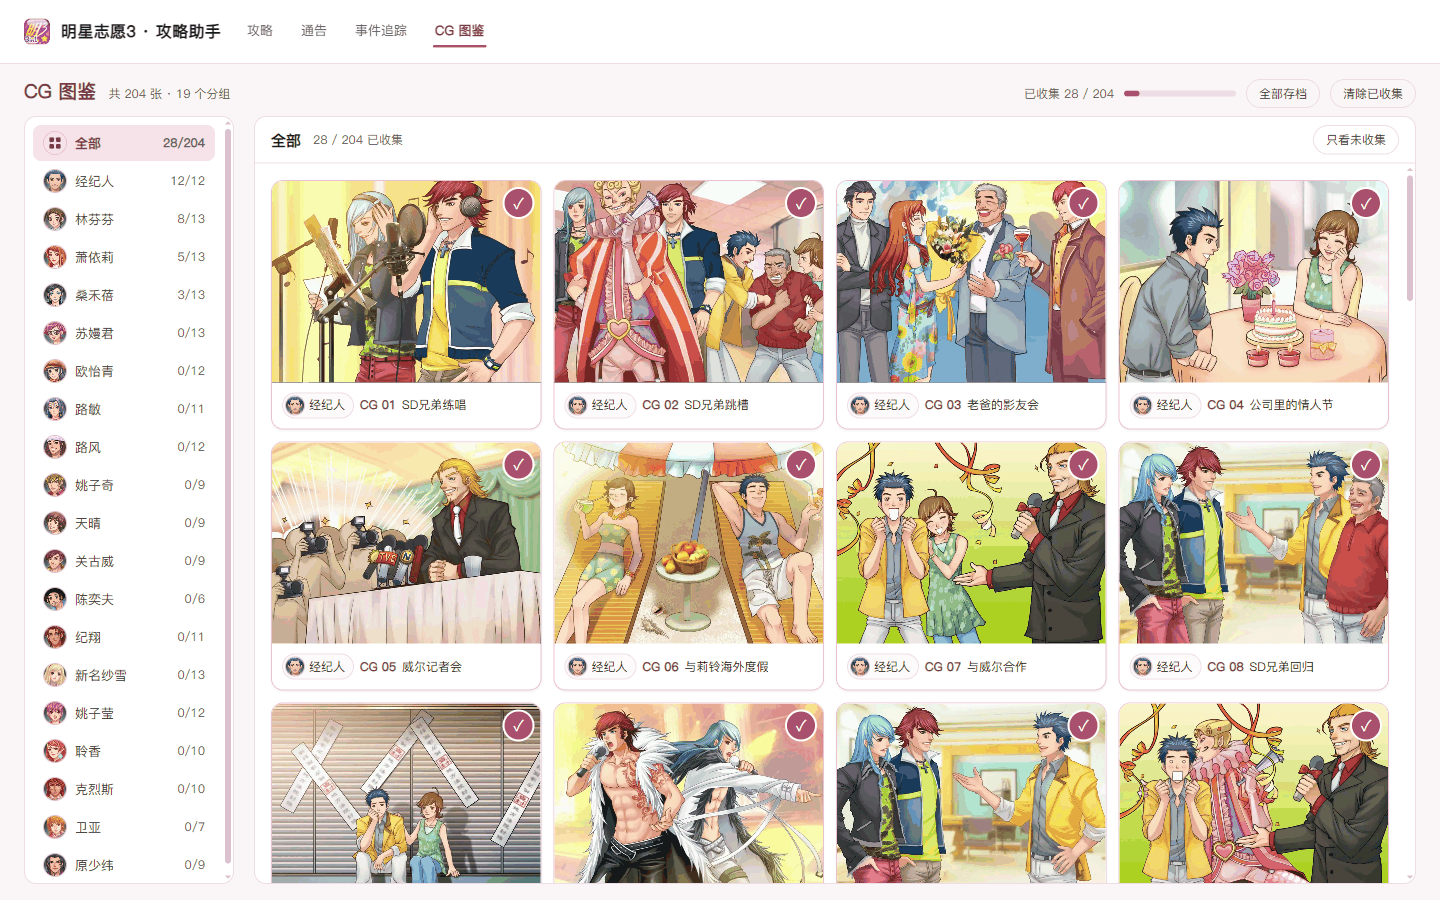
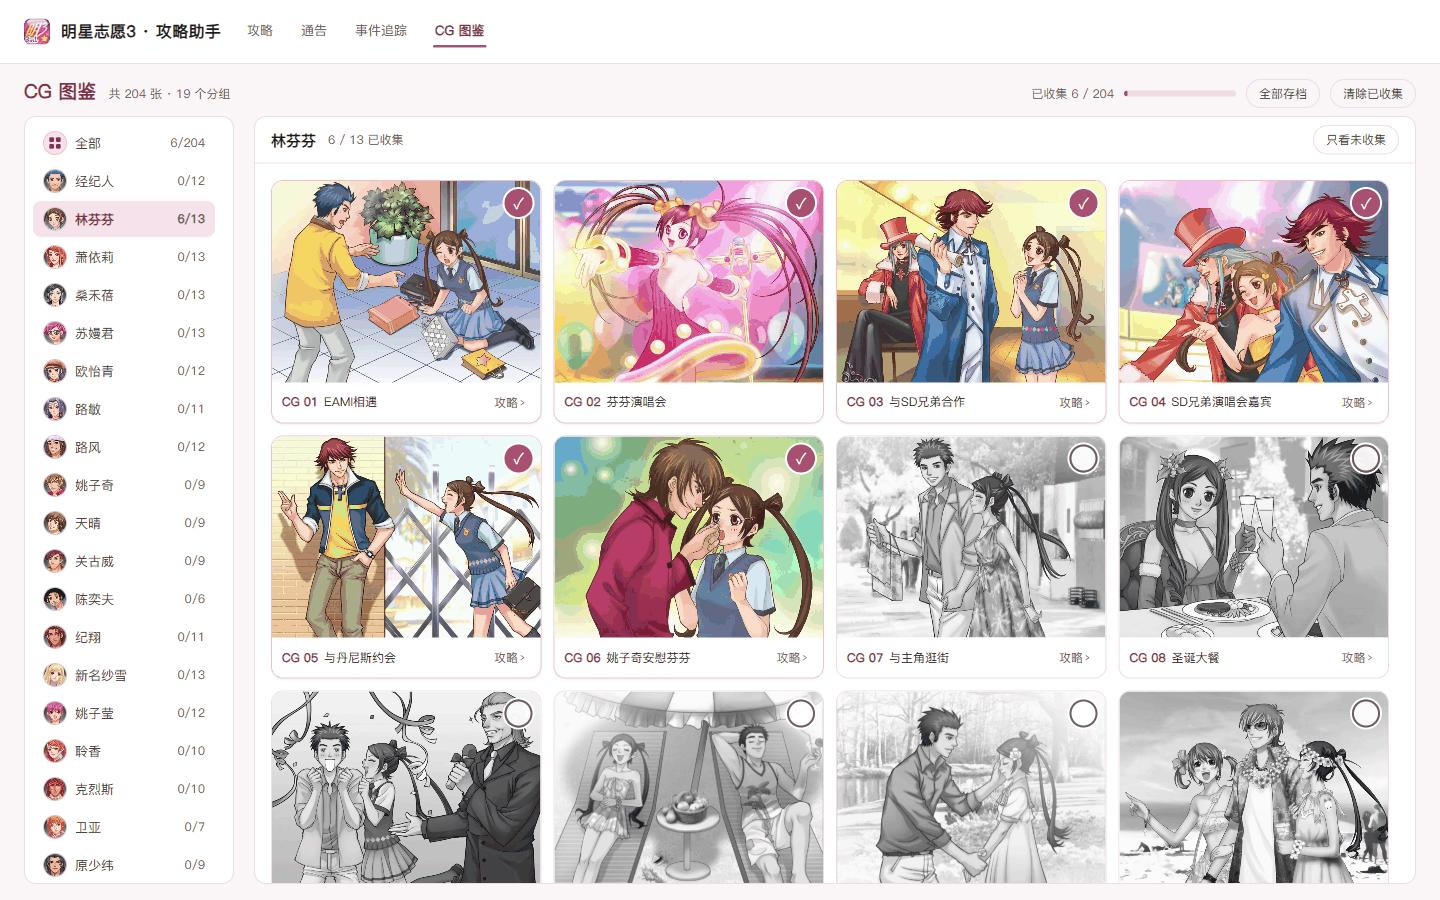
docs: update readme for event-level cg links

diff --git a/docs/content-pipeline.md b/docs/content-pipeline.md
@@ -5,7 +5,7 @@
 
 ## 内容来源
 
-- 《明星志愿3攻略.docx》（本地原始文档，不入库）：四大分级的主体正文。
+- 《明星志愿3攻略.docx》（本地原始文档，不入库）：经纪人事件簿 / 艺人事件簿 / 六大特殊通告 / 其他事件四类的主体正文。「路欧桑剧情整理」原本是「其他事件」的最后一条，现在单独提成一个类目（`extract_guide.py` 建树时把这一项从 `other_items` 里 `pop` 出来插到第三位），正文仍来自 `sources/luousang-*.txt` 那五份分支文件。**类目 id 与五个分支 id 一直是 `other-events/luousang*`，提升时没有改名**，老书签、CG 落点、追踪器的分支线都靠它。
 - `sources/game-initial-questions.txt`：开局访谈 14 题的完整选项与友好度变化，**以这份 txt 为唯一来源**，原文（GBK）转 UTF-8 后原样使用，不做改写。首行 `★标题` 只是页面标题（与页面同名时不重复渲染）；首个问题之前的说明行合并成一条黄底提示条；`问题结束（补充说明）` 的括号文字作为该选项的脚注（`hint`），选项本身仍显示「问题结束」终止标记。
 - `sources/initial-events.txt`：初始事件（新手事件 1–5 / 女艺人的疑惑 / 女艺人的请求），**以该 txt 为唯一来源**，docx 里的同名章节不再参与渲染，原文（GBK）转 UTF-8 后原样使用。解析规则：首行 `★新手事件：` 是页面标题，跳过；`#`、`*` 开头与**以冒号结尾的独行标题**（`初始女艺人的事件（指…）：`）都解析为 `section`；章节内不含标点的短行（`女艺人的疑惑`）解析为 `heading` 子标题；编号行（`1 （自动）`、`3－1 （跟随）`）解析为 `event` 并保留编号与触发方式标签，`提醒：` 行渲染为提示条，「旗下艺人为…」缩进为选项样式。txt 里已经没有 `#初始剧情` 这个标签，所以第一个 `event` 之前若还没有任何 `section`，脚本会自动补一个「初始剧情」小节，让开局 5 条事件不再裸挂在页面下。正文里混用的 `--` 与半角逗号会统一成 `——` 与 `，`。
 - `sources/character-stats.txt`：18 位可签约艺人（含资料片新增）的初始属性，**以游戏内「初始属性(女)」「初始属性(男)」两张截图为准**。源文件保持截图的行列形状：一段以角色名开头，随后是属性行与紧跟其后的 `成长` 行；女、男两段合并成**一张表**（`table` 块）而不分性别——一人一行、一项一列，每个格子上面是初始值、下面一行小字是成长加成。姓名列在窄屏横向滑动时保持固定；每列最高的数值套浅粉胶囊，成长加成的最高值用金色，**并列第一不标**。
@@ -43,6 +43,22 @@
 - `table` 块交给 `DataTable`：表头用 sidebar 底色，数值列右对齐并用 `tabular-nums` 对齐位数，奇偶行交替换色；`highlight` 列为真的列会把该列最高值套上 `bg-brand-soft` 胶囊，列上有 `growthKey` 时该格会多渲染一行「＋成长值」（最高值转金色）。最高值只在该列唯一时才标，和游戏内表格「多於一人時不會標示」一致。
 - 其余情况逐块渲染：`section`（`#`/`*` 大标题）、`heading`、段落、提示条各自成段。
 
+## 攻略 ⇄ CG 映射
+
+两张手写表是唯一事实来源，改映射只改这两张，再重跑对应脚本：
+
+| 表 | 用途 | 格式 |
+| --- | --- | --- |
+| `sources/cg-links.tsv` | 一对一：事件 → 它出的那张（或那几张）CG | `节点id <TAB> 事件号 <TAB> cgId[,cgId] <TAB> 章节?` |
+| `sources/cg-node-links.tsv` | 多对一：多张 CG 共用一个事件，或只能整页落点 | `cgId <TAB> 节点id <TAB> 备注 <TAB> 事件号? <TAB> 章节?` |
+
+- **章节列必须写「最内层」heading**，`☆d2` 子标题（「拒绝」「在巴黎」「同志传闻」）也算一层。同一编号在一页里出现两次时不写章节会报 `ambiguous event`，写错报 `no such event … @ 章节`，整条映射让生成直接失败，不会静默断链。
+- `extract_guide.py` 的 `apply_cg_links()` 给命中事件的块补 `cgIds` 与 `anchor="ev<块下标>"`；事件卡的 DOM id 用 `head.anchor ?? ev<index>` 兜底，所以任何事件都能被 `#/guide/<nodeId>~ev<n>` 深链，哪怕它没有 CG。
+- `extract_cg.py` 的 `apply_node_links()` 处理多对一：有事件号就现算 `ev<块下标>`（美丽之星写真集 18 张都锚 #14），没有就只写整页落点。两份结果分别落在 `guide.json` 的块上和 `cg.json` 的 `item.guide`。
+- 前端 `CgApp.linkFor()` 先认事件级（`cgIds` 反查），再认页面级；多个候选落点时**优先 `other-events/luousang/` 前缀**——三人恋情事件在各自艺人页只做浏览，跳转与收集统一走剧情整理。`src/lib/cgOrigin.ts` 另外记住「从哪条事件点进图鉴的」（sessionStorage，不进存档），同一张图有多处出处时按原路返回。
+- 允许的重复：同一张 CG 出现在同节点的两个事件（苏嫚君 CG05 圣诞布置，育幼院 #40 与达成结局 #55 各一次），以及 `other-events/luousang/` 五个分支页之间（同一段剧情写了五遍）。跨节点重复会被 `test_cg_links.py` 拦下，除非登记进 `DUPLICATED_ACROSS_NODES`。
+- 事件池里被挡掉的重复章节由 `src/lib/tracker.ts` 的 `POOL_SKIP` 按「节点 id + 章节名」配置（路风 / 桑禾蓓的整个「事件」节、欧怡青的「路欧恋」章）；**被挡的线仍递增序号**，其余线的 id 不位移，老存档才不会失联。
+
 ## 锚点跳转
 
 攻略正文里带 `id` 的标题块可以在页内跳转，`target` 指向目标块的 `id`：
@@ -65,7 +81,7 @@
 
 - 拖拽落点是目标行的上半 / 下半，分别表示「插入到它之前 / 之后」，落点处显示一条玫瑰色插入线，被拖的行变淡。
 - 顺序存在 `localStorage`（`guide.tree-order.v1`），只记录**真正动过的层级**（父级 id → 子 id 列表）。重新生成 `guide.json` 时，未动过的层级不受影响；列表里已不存在的 id 会被忽略，新增条目回落到该层级末尾。
-- 只改顺序不改数据：页头的四个分类 tab、搜索命中的排列、「上一条 / 下一条」都按新顺序走。URL 里仍是稳定的节点 id，重排不会让链接失效。
+- 只改顺序不改数据：页头的五个分类 tab、搜索命中的排列、「上一条 / 下一条」都按新顺序走。URL 里仍是稳定的节点 id，重排不会让链接失效。
 - 侧栏标题右侧出现「恢复默认」时表示顺序已被改过，点一下即回到脚本生成的顺序（同时清掉本地记录）。
 - 键盘可用 `Alt+↑` / `Alt+↓` 把焦点所在的条目上移 / 下移一位。触摸屏不支持 HTML5 拖拽，此时每行右侧显示 `↑` `↓` 两个按钮（`touch:` 变体，`pointer: coarse`）。
 
@@ -83,8 +99,9 @@
 | `npm run build` | 类型检查 + 生产构建到 `dist/` |
 | `npm run preview` | 预览构建产物 |
 | `npm run typecheck` | 只跑 `tsc` |
-| `npm run test:guide` | Python 回归测试：攻略解析（29 项）+ 通告数据（13 项） |
+| `npm run test:guide` | Python 回归测试：攻略解析（30 项）+ 通告数据（13 项）+ CG 映射（9 项），共 52 项 |
 | `python scripts/extract_notices.py` | 重生成通告数据（需 `pip install openpyxl xlrd`） |
+| `python scripts/extract_cg.py` | 重生成 CG 图鉴与图片（需 Pillow，素材放在 `outputs/`） |
 
 **解析回归**：解析脚本里积累了大量角色专属分支，改一个共享正则可能悄悄改坏别的角色页，所以 `test_extract.py` 会重跑真实管线，并断言产物与已提交的 `guide.json` **逐字节一致**。改完解析规则先重生成再测：
 
@@ -118,18 +135,26 @@ node scripts/cdp_tracker_memo.mjs
 ```
 public/data/guide.json       生成的结构化攻略数据（运行时加载）
 public/data/notices.json     生成的通告数据（进入通告 tab 才加载）
+public/data/cg.json          生成的 CG 图鉴数据（含 CG → 攻略落点）
+public/images/cg/*.webp      压缩后的 CG 图片（进仓库）
 sources/*.txt                补充攻略的纯文本来源（UTF-8，可重跑）
 sources/notices/*.xls|xlsx   通告原始表格（重生成数据的输入）
+sources/cg-links.tsv         事件 → CG 的一对一映射（手写）
+sources/cg-node-links.tsv    CG → 事件 / 页面的多对一映射（手写）
 scripts/extract_guide.py     docx + sources → guide.json（零第三方依赖）
 scripts/extract_notices.py   表格 → notices.json（需 openpyxl / xlrd）
+scripts/extract_cg.py        CG 素材 → cg.json + webp（需 Pillow）
 scripts/test_extract.py      攻略解析回归测试
 scripts/test_notices.py      通告数据回归测试
+scripts/test_cg_links.py     事件 → CG 映射回归测试
+scripts/test_cg_node_links.py  CG → 事件 / 页面映射回归测试
 scripts/cdp_*.mjs            浏览器端到端验证脚本
 src/components/              攻略阅读页组件
 src/components/notices/      通告库（筛选、详情、能力对照）
 src/components/tracker/      事件追踪器
+src/components/cg/           CG 图鉴
 src/hooks/                   数据加载、选中态、进度存储、锚点跳转
-src/lib/                     纯逻辑：内容解析、统计、排序、筛选、存档
+src/lib/                     纯逻辑：内容解析、统计、排序、筛选、存档、CG 反向索引
 ```
 
 ## 提交约定

diff --git a/README.md b/README.md
@@ -24,11 +24,12 @@
 
 ### 攻略浏览
 
-- 按经纪人事件簿、艺人事件簿、六大特殊通告、其他事件四级分类组织，逐层展开至具体事件
+- 按经纪人事件簿、艺人事件簿、路欧桑剧情整理、六大特殊通告、其他事件分类组织，逐层展开至具体事件
 - 支持按标题、正文与事件编号搜索，结果直接定位到对应内容
 - 每个小节有独立锚点链接，可直接分享
 - 宽屏右侧常驻本页大纲，随滚动高亮当前小节
 - 目录顺序可拖拽调整，顺序仅保存在本机
+- 出过 CG 的事件在编号旁带一枚金色 CG 徽标，点一下直达图鉴里的那一张；顺着图鉴回来仍落在同一条事件上
 - 「小贴士」便签页把培训与打工、证书取得、制作人擅长方向、颁奖典礼日程、关键事件等速查表集中成一页，随时翻查
 
 ### 通告库
@@ -42,6 +43,7 @@
 ### 事件追踪
 
 - 选定当前签约艺人（最多 4 位）后，按章节自动生成相关事件线
+- 路欧桑剧情整理按「只有桑禾蓓 / 只有路风 / 路风和桑禾蓓 / 路风和欧怡青在旗下」分成五条分支，只把当前组合成立的那几条放进池子；路风、桑禾蓓、欧怡青个人页里的同名恋情章节与它重复，不入池、仍可照常浏览
 - 每个事件可标记完成或单独放弃，放弃的步骤不计入统计
 - 支持按状态（进行中 / 未开始 / 已完成 / 已放弃 / 已移出）与内容筛选，并支持搜索
 - 支持拖拽排序、置顶重要任务线、按分类批量移出或恢复
@@ -50,8 +52,9 @@
 
 ### CG 图鉴
 
-- 收录 204 张 CG，按经纪人 + 18 位艺人分成 19 组，侧栏每行带人物头像与该组收集进度
+- 收录 204 张 CG，按经纪人 + 18 位艺人分成 19 组，侧栏每行带人物头像与该组收集进度；选中的分组写进地址栏，刷新或分享链接都停在原分组
 - 卡片显示人物头像、CG 编号与名称；点开看大图，图下给出完整获得条件
+- 能对上具体事件的 CG 卡片带「攻略›」入口，直接跳到出处那条事件（路欧桑感情线跳到剧情整理页的对应分支，不会落到艺人自己的页面）
 - 大图支持 ← / → 翻页、Esc 关闭；在图上即可标记已收集，与网格里的勾选互通
 - 「只看未收集」快速查漏；「全部」分组按 60 张分页加载
 - **清除已收集**：二次确认后只清空 CG 勾选，追踪进度与备忘录不受影响；误点可在撤销条里一键撤回
@@ -76,6 +79,7 @@
 - 攻略：`sources/` 下的正文与补充文本 → `scripts/extract_guide.py` → `guide.json`
 - 通告：`sources/notices/` 下的原表 → `scripts/extract_notices.py` → `notices.json`
 - CG 图鉴：`outputs/明星志愿3_CG图鉴/`（本地素材，不入库）→ `scripts/extract_cg.py`（需 Pillow）→ `cg.json` 与 `public/images/cg/*.webp`
+- 攻略 ⇄ CG 的对应关系手写在两张小表里，由上面两条管线分别注入：`sources/cg-links.tsv` 记一对一（事件号 + 最内层章节名 → CG），`sources/cg-node-links.tsv` 记多对一（多张 CG 共用一个事件，如美丽之星写真集 18 张）。写错事件号或章节名会让生成直接失败，不会静默断链
 - 校验：`npm run test:guide`（Python unittest，交叉核对抽取结果与原表）
 - 界面验证：`scripts/cdp_*.mjs`（需 dev server 与 Chrome 调试端口）
 
